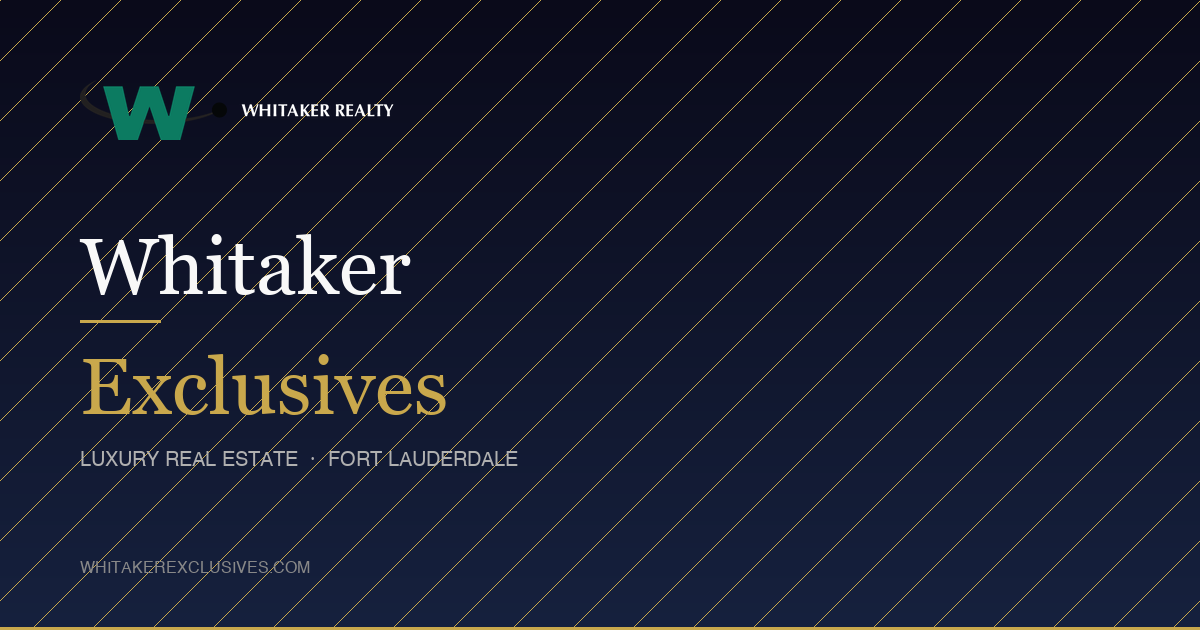
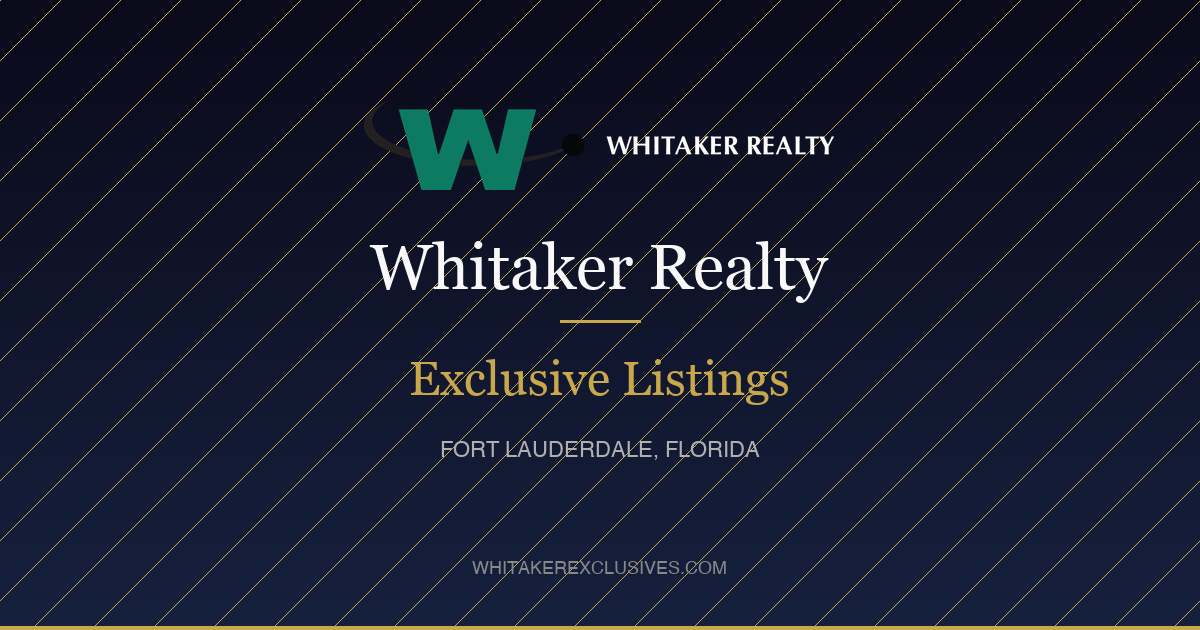
Better OG image: centered layout, Whitaker Realty Exclusive Listings + large card tags

diff --git a/listings.html b/listings.html
@@ -7,7 +7,7 @@
   <meta name="description" content="Browse exclusive luxury listings from Whitaker Realty in Fort Lauderdale — properties you won't find anywhere else.">
   <meta property="og:title" content="Exclusive Listings — Whitaker Exclusives">
   <meta property="og:description" content="Browse exclusive luxury listings from Whitaker Realty in Fort Lauderdale.">
-  <meta property="og:image" content="https://whitakerexclusives.com/images/og-image.png"><meta property="og:image:width" content="1200"><meta property="og:image:height" content="630"><link rel="icon" href="images/favicon.ico">
+  <meta property="og:image" content="https://whitakerexclusives.com/images/og-image.png"><meta property="og:image:width" content="1200"><meta property="og:image:height" content="630"><meta name="twitter:card" content="summary_large_image"><meta name="twitter:image" content="https://whitakerexclusives.com/images/og-image.png"><link rel="icon" href="images/favicon.ico">
   <link rel="stylesheet" href="css/style.css">
 </head>
 <body>

diff --git a/addlisting.html b/addlisting.html
@@ -5,7 +5,7 @@
   <meta name="viewport" content="width=device-width, initial-scale=1.0">
   <title>Add Listing — Whitaker Exclusives</title>
   <meta name="description" content="Submit a new exclusive listing to Whitaker Exclusives.">
-  <meta property="og:image" content="https://whitakerexclusives.com/images/og-image.png"><meta property="og:image:width" content="1200"><meta property="og:image:height" content="630"><link rel="icon" href="images/favicon.ico">
+  <meta property="og:image" content="https://whitakerexclusives.com/images/og-image.png"><meta property="og:image:width" content="1200"><meta property="og:image:height" content="630"><meta name="twitter:card" content="summary_large_image"><meta name="twitter:image" content="https://whitakerexclusives.com/images/og-image.png"><link rel="icon" href="images/favicon.ico">
   <link rel="stylesheet" href="css/style.css">
   <style>
     .form-section { padding: 120px 0 100px; }

diff --git a/listing.html b/listing.html
@@ -5,7 +5,7 @@
   <meta name="viewport" content="width=device-width, initial-scale=1.0">
   <title>Property Details — Whitaker Exclusives</title>
   <meta name="description" content="Exclusive luxury listing from Whitaker Realty in Fort Lauderdale.">
-  <meta property="og:image" content="https://whitakerexclusives.com/images/og-image.png"><meta property="og:image:width" content="1200"><meta property="og:image:height" content="630"><link rel="icon" href="images/favicon.ico">
+  <meta property="og:image" content="https://whitakerexclusives.com/images/og-image.png"><meta property="og:image:width" content="1200"><meta property="og:image:height" content="630"><meta name="twitter:card" content="summary_large_image"><meta name="twitter:image" content="https://whitakerexclusives.com/images/og-image.png"><link rel="icon" href="images/favicon.ico">
   <link rel="stylesheet" href="css/style.css">
 </head>
 <body>

diff --git a/index.html b/index.html
@@ -13,6 +13,7 @@
   <meta property="og:image:width" content="1200">
   <meta property="og:image:height" content="630">
   <meta name="twitter:card" content="summary_large_image">
+  <meta name="twitter:image" content="https://whitakerexclusives.com/images/og-image.png">
   <link rel="icon" href="images/favicon.ico">
   <link rel="stylesheet" href="css/style.css">
 </head>
